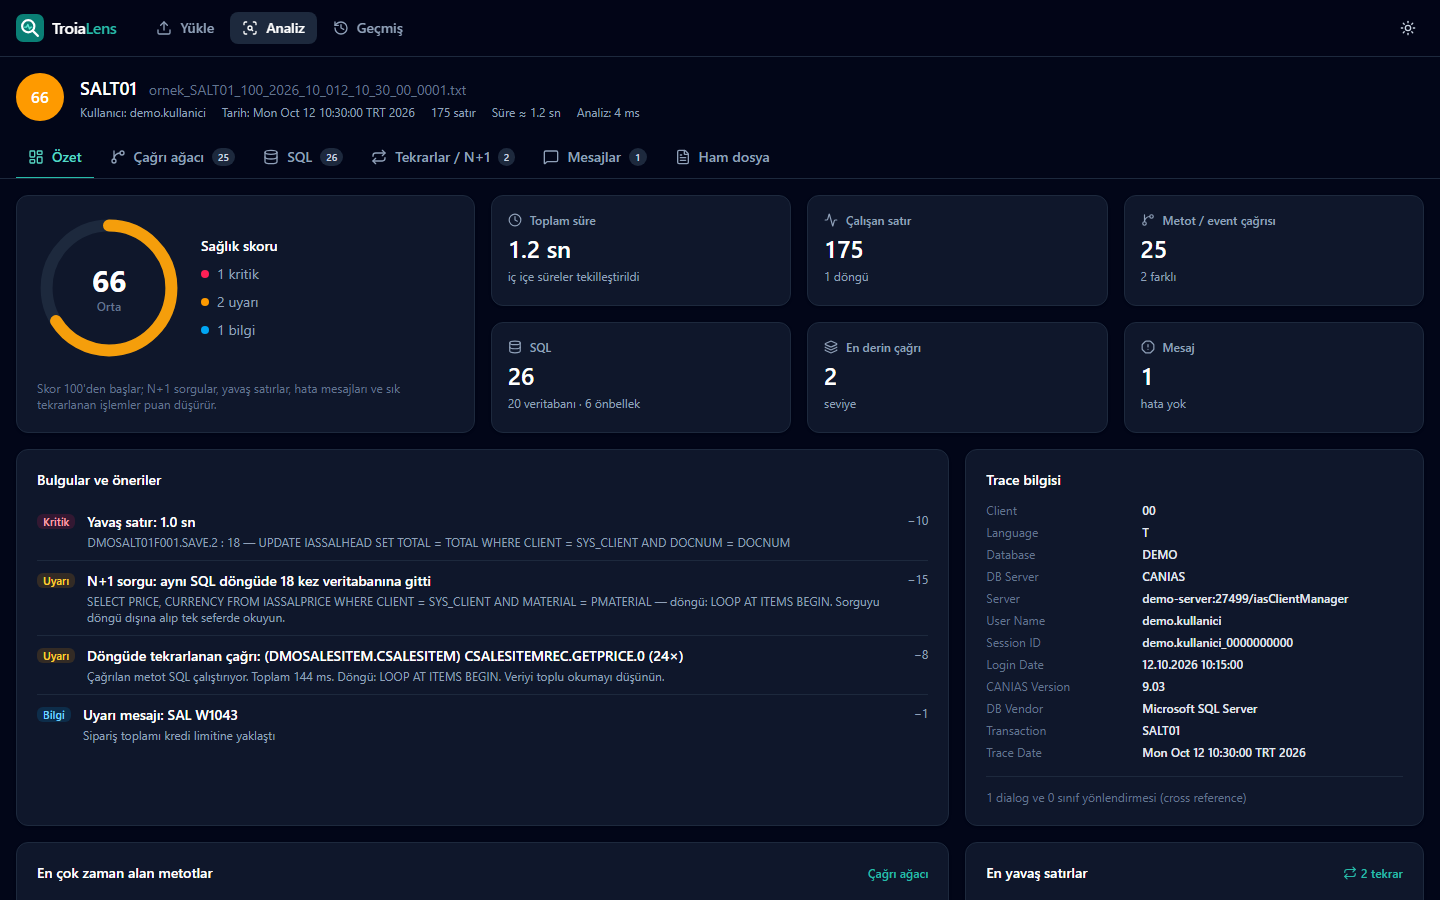
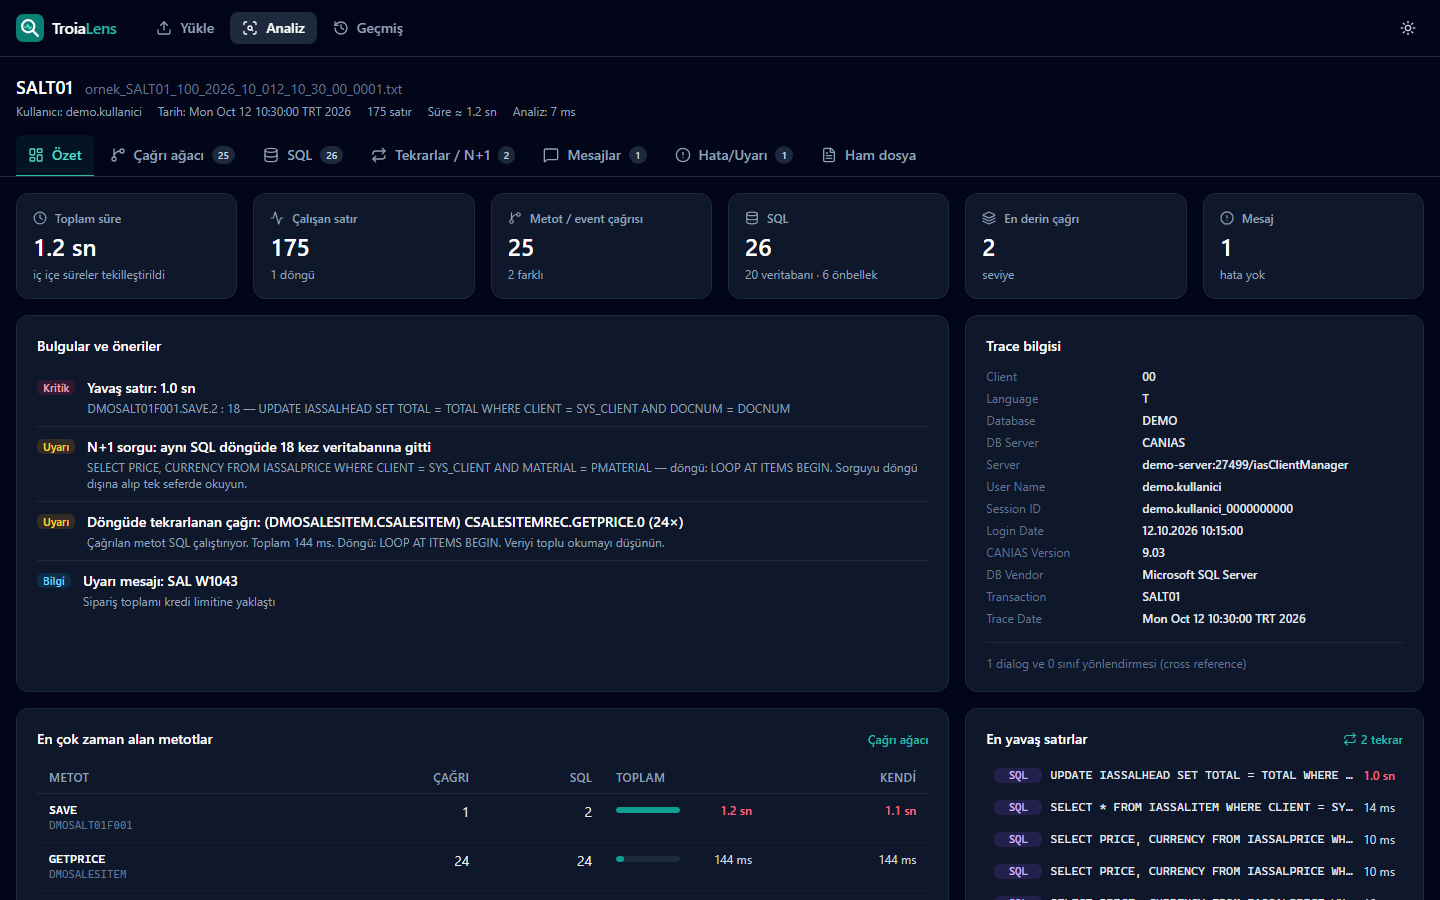
Skor rozetlerini arayüzden kaldır; README ve ekran görüntülerini güncelle

diff --git a/src/pages/Home.tsx b/src/pages/Home.tsx
@@ -1,9 +1,8 @@
 import { useEffect, useRef, useState, type DragEvent } from 'react'
-import { ArrowRight, ClipboardPaste, Database, FileText, GitBranch, HeartPulse, Loader2, Lock, Repeat, X } from 'lucide-react'
+import { ArrowRight, ClipboardPaste, Database, FileText, GitBranch, Lightbulb, Loader2, Lock, Repeat, X } from 'lucide-react'
 import { readTraceFile } from '../lib/run.ts'
 import { listHistory, loadHistoryText, type HistoryEntry } from '../lib/storage.ts'
 import { Logo } from '../components/Header.tsx'
-import { ScoreDot } from '../components/ui.tsx'
 
 interface Props {
   onLoad: (name: string, text: string, opts?: { remember?: boolean }) => void
@@ -17,7 +16,7 @@ const FEATURES = [
   { icon: GitBranch, title: 'Çağrı ağacı', text: 'Event, metot ve sınıf çağrılarını iç içe görün; her düğümün süresini ve SQL sayısını izleyin.' },
   { icon: Database, title: 'SQL analizi', text: 'Sorguları gruplayın, veritabanı ve önbellek isabetlerini ayırın, en pahalı tabloları bulun.' },
   { icon: Repeat, title: 'N+1 tespiti', text: 'Döngü içinde tekrar tekrar çalışan sorgu ve metot çağrılarını otomatik yakalayın.' },
-  { icon: HeartPulse, title: 'Sağlık skoru', text: 'Yavaş satırlar, hata mesajları ve tekrarlardan 0–100 arası bir skor ve öneri listesi.' },
+  { icon: Lightbulb, title: 'Bulgular ve öneriler', text: 'Yavaş satırları, hata mesajlarını ve tekrarları bulun; her sorun için bir öneri alın.' },
 ]
 
 export function Home({ onLoad, busy, error, onDismissError, navigate }: Props) {
@@ -145,7 +144,6 @@ export function Home({ onLoad, busy, error, onDismissError, navigate }: Props) {
           <div className="grid gap-2 sm:grid-cols-2">
             {recent.map((h) => (
               <button key={h.id} className="card flex items-center gap-3 p-3 text-left hover:border-brand-400" onClick={() => void openRecent(h)}>
-                <ScoreDot score={h.score} />
                 <div className="min-w-0 flex-1">
                   <div className="truncate text-sm font-medium text-slate-900 dark:text-white">{h.transaction ?? h.name}</div>
                   <div className="truncate text-xs text-slate-500">

diff --git a/src/pages/History.tsx b/src/pages/History.tsx
@@ -1,7 +1,7 @@
 import { useEffect, useState } from 'react'
 import { History as HistoryIcon, Loader2, Trash2 } from 'lucide-react'
 import { deleteHistory, listHistory, loadHistoryText, type HistoryEntry } from '../lib/storage.ts'
-import { Empty, ScoreDot } from '../components/ui.tsx'
+import { Empty } from '../components/ui.tsx'
 
 function fmtSize(b: number) {
   if (b >= 1024 * 1024) return `${(b / 1024 / 1024).toFixed(1)} MB`
@@ -56,7 +56,6 @@ export function History({ onLoad, busy }: { onLoad: (name: string, text: string,
         <div className="card divide-y divide-slate-100 dark:divide-slate-800">
           {items.map((h) => (
             <div key={h.id} className="flex items-center gap-4 px-4 py-3">
-              <ScoreDot score={h.score} />
               <button className="min-w-0 flex-1 text-left" disabled={!!busy} onClick={() => void open(h)}>
                 <div className="truncate font-medium text-slate-900 hover:text-brand-600 dark:text-white dark:hover:text-brand-400">
                   {h.transaction ? `${h.transaction} · ` : ''}

diff --git a/src/pages/AnalysisPage.tsx b/src/pages/AnalysisPage.tsx
@@ -14,7 +14,6 @@ import { IssuesView } from '../components/analysis/IssuesView.tsx'
 import { RawView } from '../components/analysis/RawView.tsx'
 import { StatementDetail } from '../components/analysis/StatementDetail.tsx'
 import { SourcePane } from '../components/analysis/SourcePane.tsx'
-import { ScoreDot } from '../components/ui.tsx'
 
 const SLIDE_OVER_KEY = 'troialens.detailSlideOver'
 
@@ -195,7 +194,6 @@ export function AnalysisPage({
   return (
     <div className={`flex h-full flex-col ${embedded ? '' : 'mx-auto w-full max-w-[1600px]'}`}>
       <div className={`flex items-center ${embedded ? 'gap-3 px-3 pt-3 pb-2' : 'flex-wrap gap-4 p-4'}`}>
-        <ScoreDot score={analysis.score} size={embedded ? 'sm' : 'lg'} />
         <div className="min-w-0 flex-1">
           <div className={`flex items-baseline ${embedded ? 'gap-x-2' : 'flex-wrap gap-x-3'}`}>
             <h1 className={`shrink-0 font-semibold text-slate-900 dark:text-white ${embedded ? '' : 'text-lg'}`}>{transaction ?? 'Trace'}</h1>

diff --git a/README.md b/README.md
@@ -21,7 +21,7 @@ Trace dosyasını (`.trace`, `.txt` veya `.log`) ana sayfaya sürükleyin ya da 
 
 ## Neler yapabilirsiniz?
 
-- **Özet:** Toplam süre, sorgu sayısı ve 0 ile 100 arasında bir sağlık puanı. Puanı düşüren sorunlar önerilerle birlikte listelenir.
+- **Özet:** Toplam süre, sorgu sayısı ve en uzun çağrı derinliği gibi temel göstergeler. Bulunan sorunlar önerilerle birlikte listelenir.
 - **Çağrı ağacı:** Event, metot ve sınıf çağrılarını iç içe görürsünüz. Her satırda süre ve sorgu sayısı görünür.
   Ağacın kaç seviye açılacağını ↑ ve ↓ düğmeleriyle seçebilirsiniz. Ağaçta arama yapabilir, yalnızca SQL satırlarını
   ya da belirli bir süreyi aşan satırları gösterebilirsiniz.
